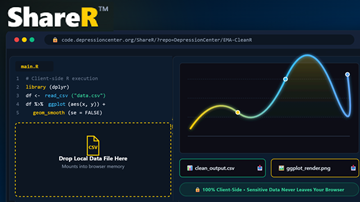
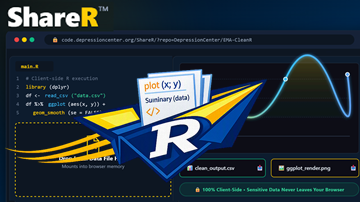
Updated preview images
Updated the main preview image and added icons.

Changed region(s): [[0.0306, 0.3267, 0.7639, 0.9208], [0.0, 0.7129, 0.0306, 0.7426]]

diff --git a/README.md b/README.md
@@ -28,7 +28,7 @@ with this program. If not, see <https://www.gnu.org/licenses/>.
 ## Description
 ShareR™ runs R and R Markdown scripts entirely inside a web browser. There is no server, no R installation, and no setup. Point it at a GitHub repository, add your own data files, and press Run.
 
-![Preview Image](./images/ShareR-Preview.png "ShareR Preview")
+![Preview Image](./images/ShareR-preview-2.png "ShareR Preview")
 
 ShareR™ lets you run an R analysis right in your web browser, no installation required. Share a link to your R script or R Markdown file on GitHub, and anyone can open it, add their own data, and run it instantly, even on a locked-down work laptop where they can't install software.
 
